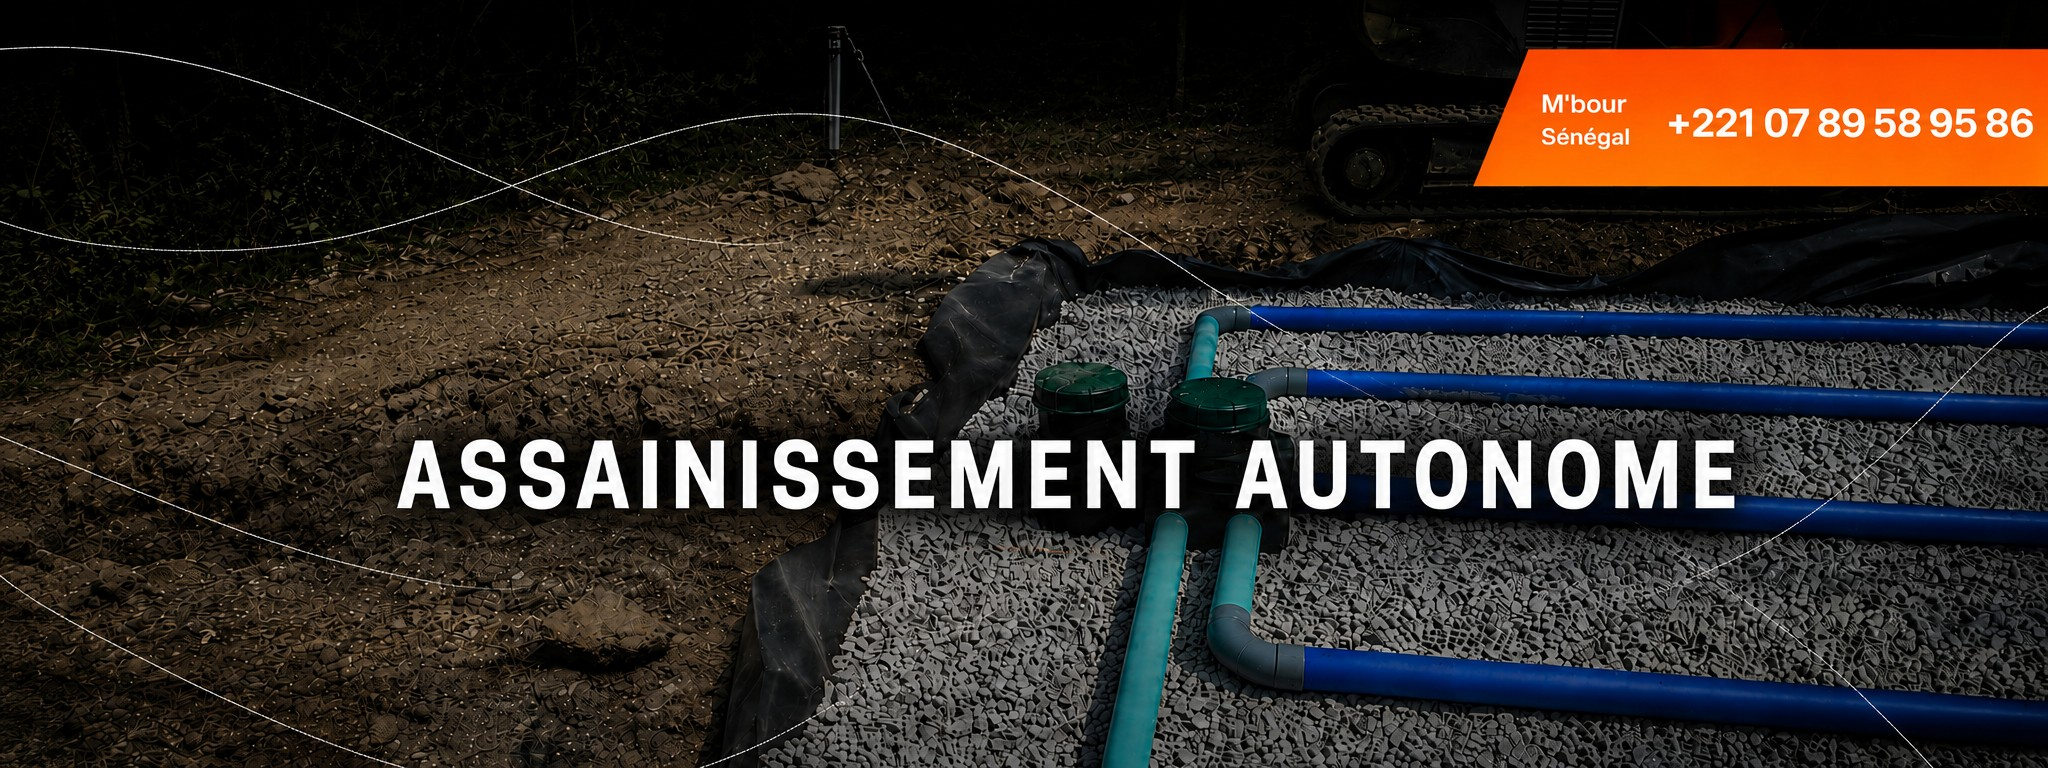
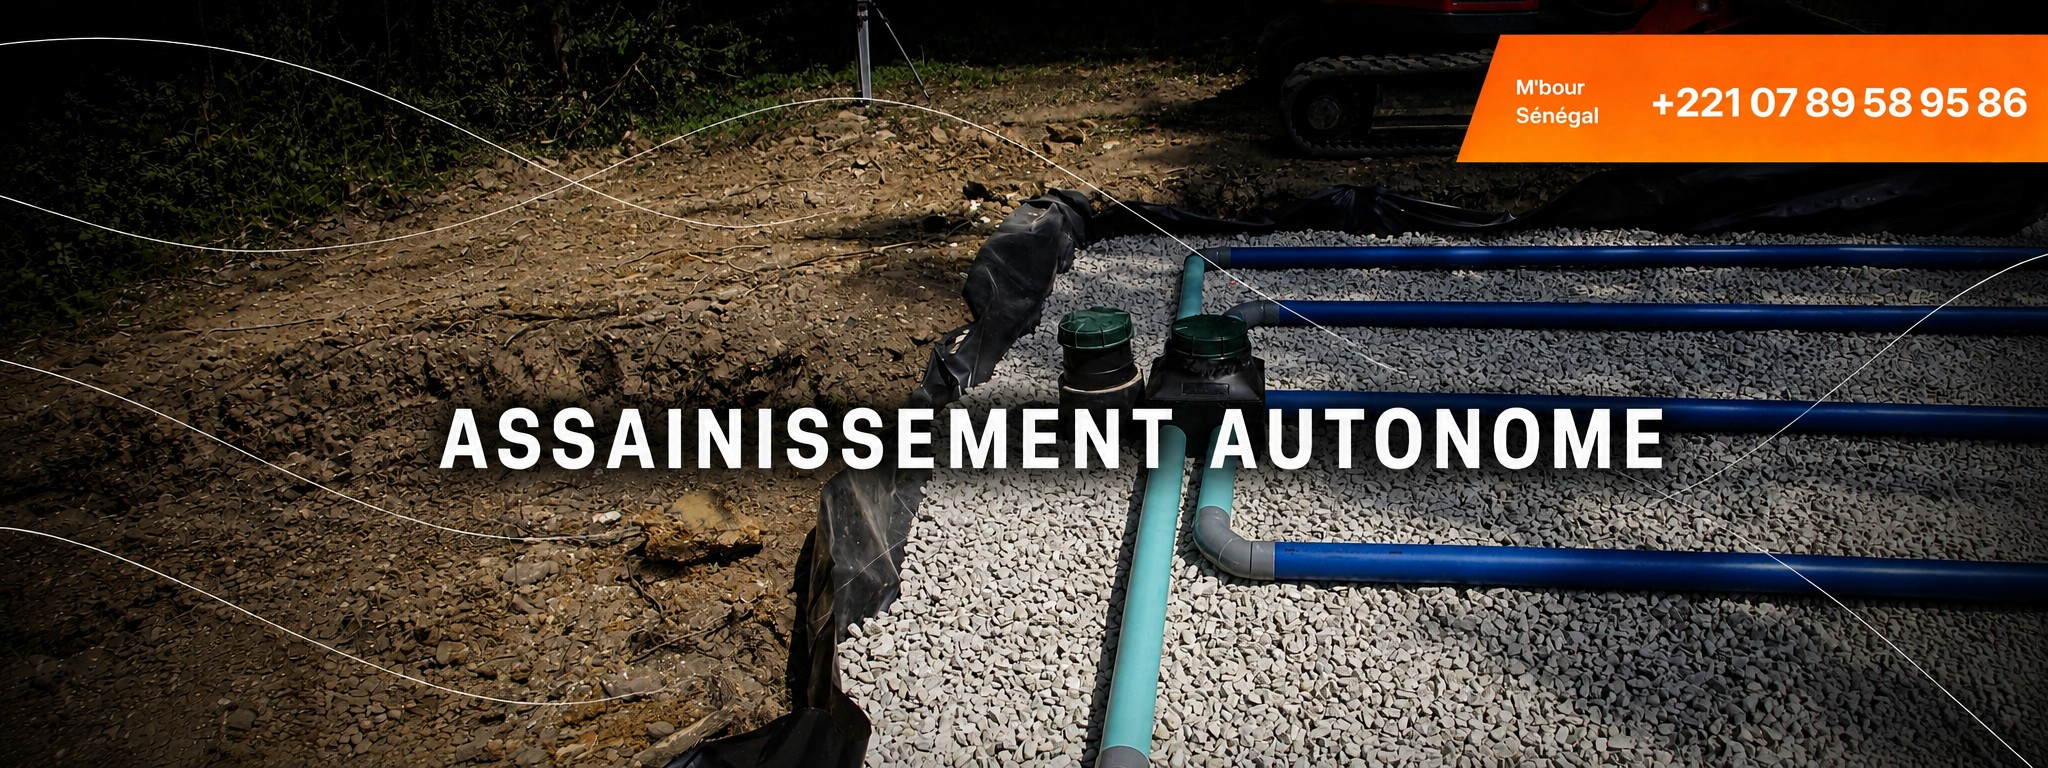
Add files via upload

diff --git a/style.css b/style.css
@@ -517,7 +517,7 @@ body:not(.prest-page):not(.contact-page):not(.actualites-page):not(.legal-page) 
 
 .about-section__media {
   width: 100%;
-  max-width: 980px;
+  max-width: none;
   margin: 0 auto;
   overflow: hidden;
   border-radius: var(--radius-lg);
@@ -881,8 +881,18 @@ body:not(.prest-page):not(.contact-page):not(.actualites-page):not(.legal-page) 
 /* =========================================================
    09 — DOMAINES D’INTERVENTION
 ========================================================= */
-.intervention-section {
+intervention-section {
   padding: 70px 0 44px;
+  background: var(--bg);
+}
+
+intervention-section {
+  padding: 42px 0 44px;
+  background: var(--bg);
+}
+
+.intervention-section {
+  padding: 32px 0 44px;
   background: var(--bg);
 }
 
@@ -1600,5 +1610,63 @@ body:not(.prest-page):not(.contact-page):not(.actualites-page):not(.legal-page) 
 @media (max-width: 768px) {
   .photo-gallery__head p {
     white-space: normal;
+  }
+}
+
+
+/* =========================================================
+   CORRECTIF CONTACT — RÉDUCTION ESPACE TITRE / BLOCS
+   Réduit l'espace entre le texte d'introduction et les deux blocs
+   formulaire + coordonnées, uniquement sur la page contact.
+========================================================= */
+
+.contact-page .page-header {
+  padding-bottom: 0 !important;
+}
+
+.contact-page .content-section {
+  padding-top: 8px !important;
+}
+
+.contact-page .page-title,
+.contact-page .section-head,
+.contact-page .section-heading {
+  margin-bottom: 14px !important;
+}
+
+.contact-page .contact-layout {
+  margin-top: 0 !important;
+}
+
+@media (max-width: 768px) {
+  .contact-page .content-section {
+    padding-top: 4px !important;
+  }
+}
+
+/* =========================================================
+   CORRECTIF CONTACT — BLOCS FORMULAIRE / COORDONNÉES MÊME HAUTEUR
+   Aligne les deux cartes de la page contact sur la même hauteur,
+   sans toucher aux autres pages.
+========================================================= */
+
+.contact-page .contact-layout {
+  align-items: stretch !important;
+}
+
+.contact-page .contact-card {
+  height: 100% !important;
+}
+
+.contact-page .contact-form,
+.contact-page .contact-info {
+  height: 100% !important;
+}
+
+@media (max-width: 1180px) {
+  .contact-page .contact-card,
+  .contact-page .contact-form,
+  .contact-page .contact-info {
+    height: auto !important;
   }
 }

diff --git a/surpression.html b/surpression.html
@@ -114,7 +114,7 @@
       <div class="photo-gallery__head">
         <div>
           <h2>Illustrations de terrain</h2>
-          <p>Quelques exemples de solutions de stockage, distribution d’eau potable et de maintenance.</p>
+          <p>Quelques exemples de solutions de stockage, de distribution d’eau potable et de maintenance.</p>
         </div>
       </div>
 